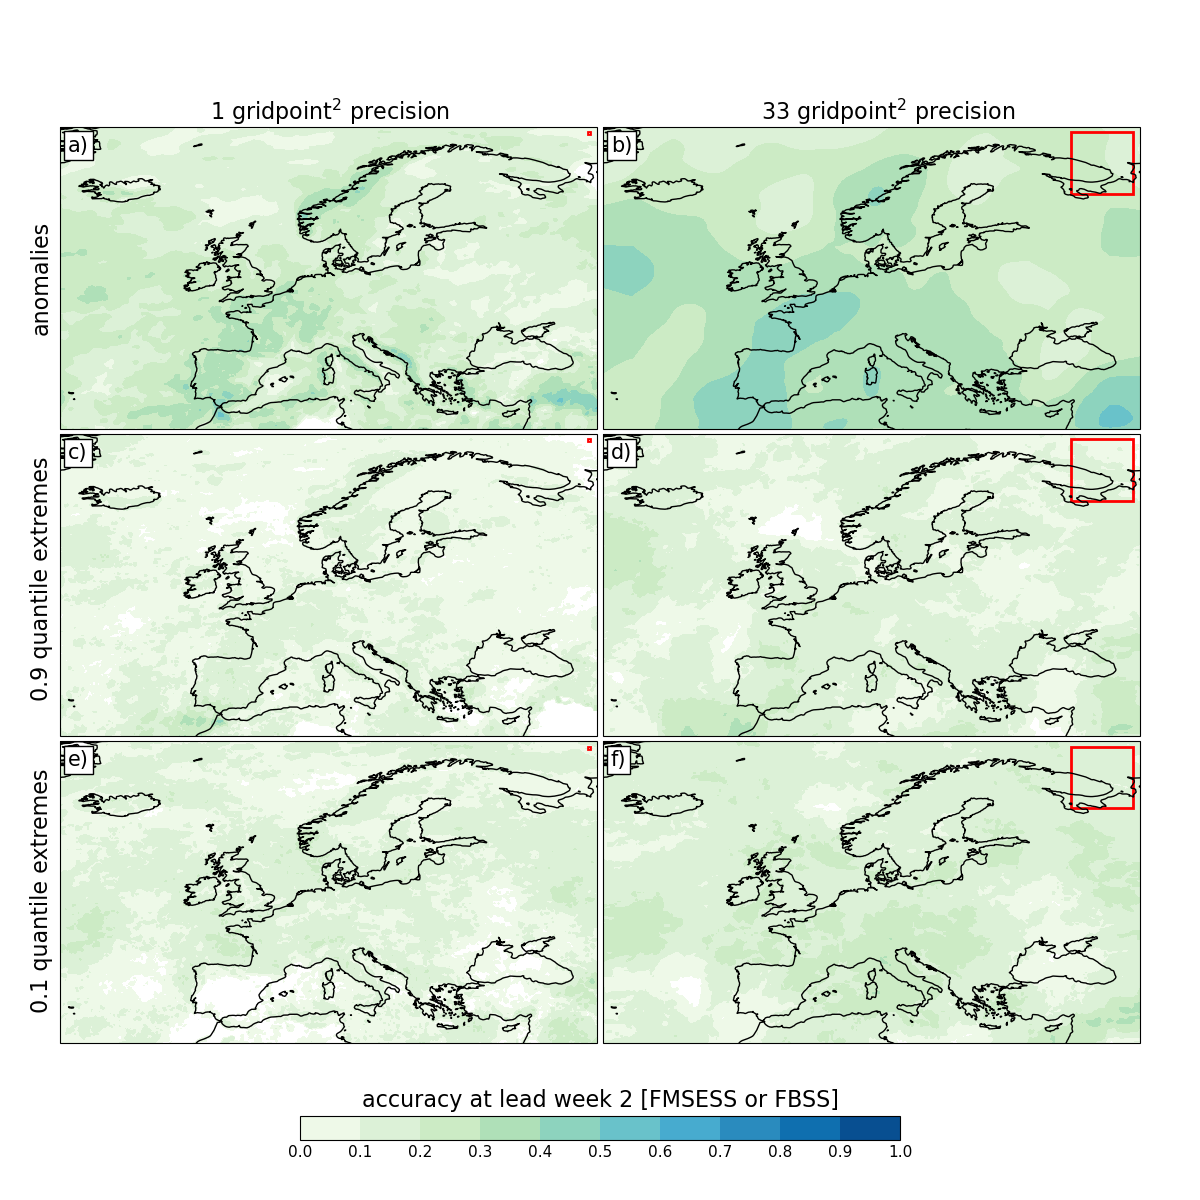
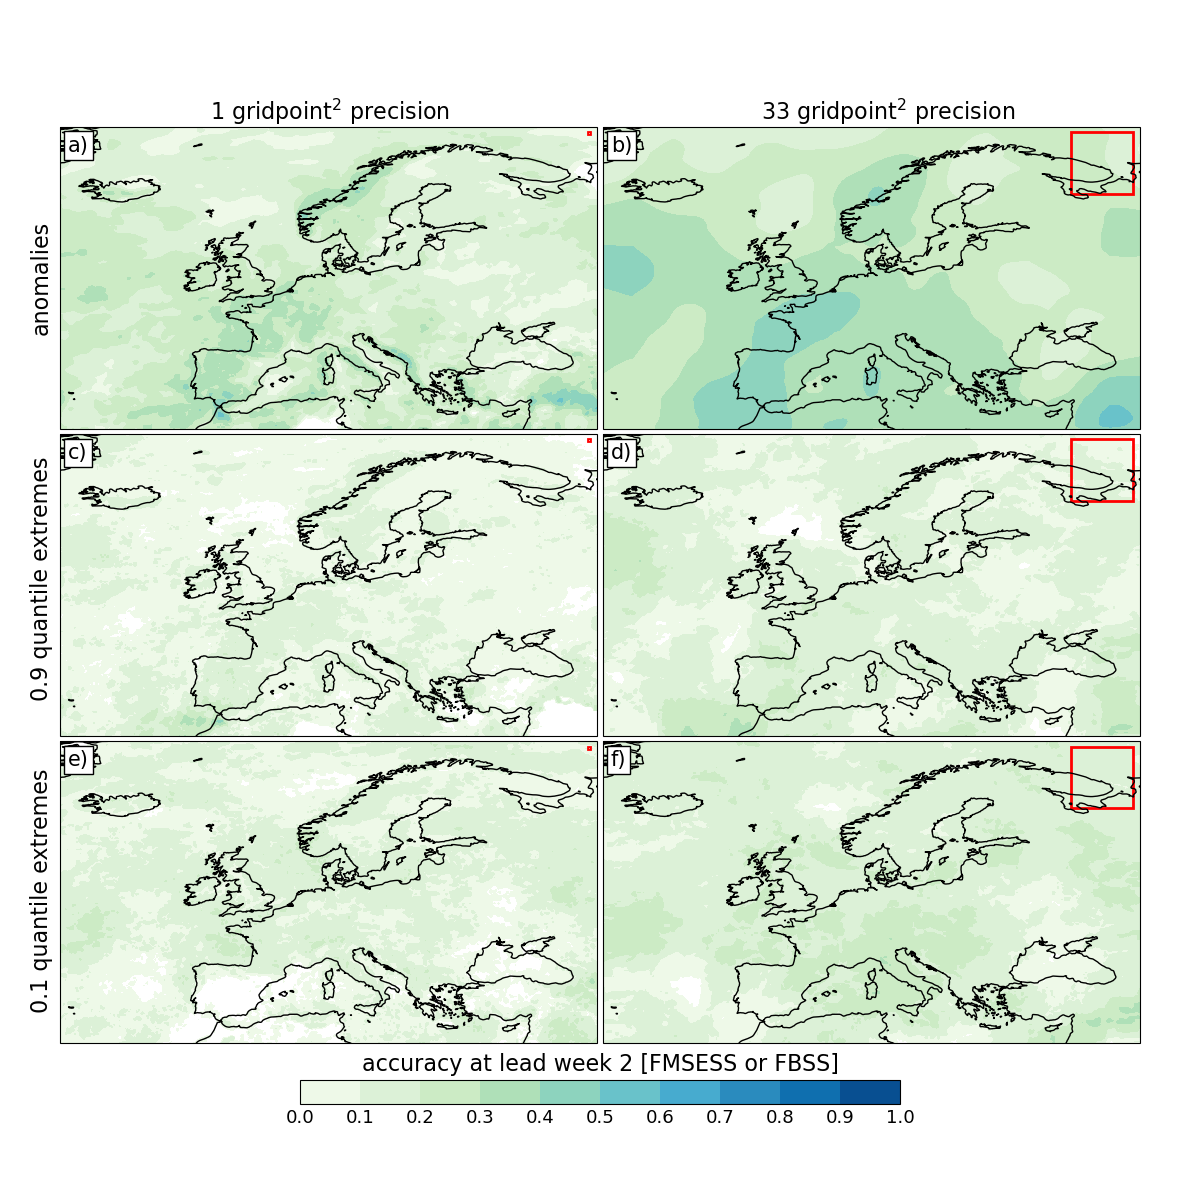
update

Changed region(s): [[0.2467, 0.8633, 0.7708, 0.9558]]

diff --git a/code/plot/plot-fig-04.py b/code/plot/plot-fig-04.py
@@ -74,9 +74,9 @@ setup_subplot_xy(4, ax[3], 'd)', ds4, clevs, cmap, fontsize)
 setup_subplot_xy(5, ax[4], 'e)', ds5, clevs, cmap, fontsize)
 p = setup_subplot_xy(6, ax[5], 'f)', ds6, clevs, cmap, fontsize)
 
-cbar_ax = fig.add_axes([0.25, 0.05, 0.5, 0.02])
+cbar_ax = fig.add_axes([0.25, 0.08, 0.5, 0.02])
 cb = fig.colorbar(p, cax=cbar_ax, orientation='horizontal',ticks=clevs, pad=0.025)
-cb.ax.tick_params(labelsize=fontsize, size=0)
+cb.ax.tick_params(labelsize=fontsize+2, size=0)
 cb.ax.set_title('accuracy at lead week 2 [FMSESS or FBSS]', fontsize=fontsize+5,y=1.01)
 
 fig.text(0.275,0.9,'1 gridpoint$^{2}$ precision',horizontalalignment='center',fontsize=fontsize+5)
